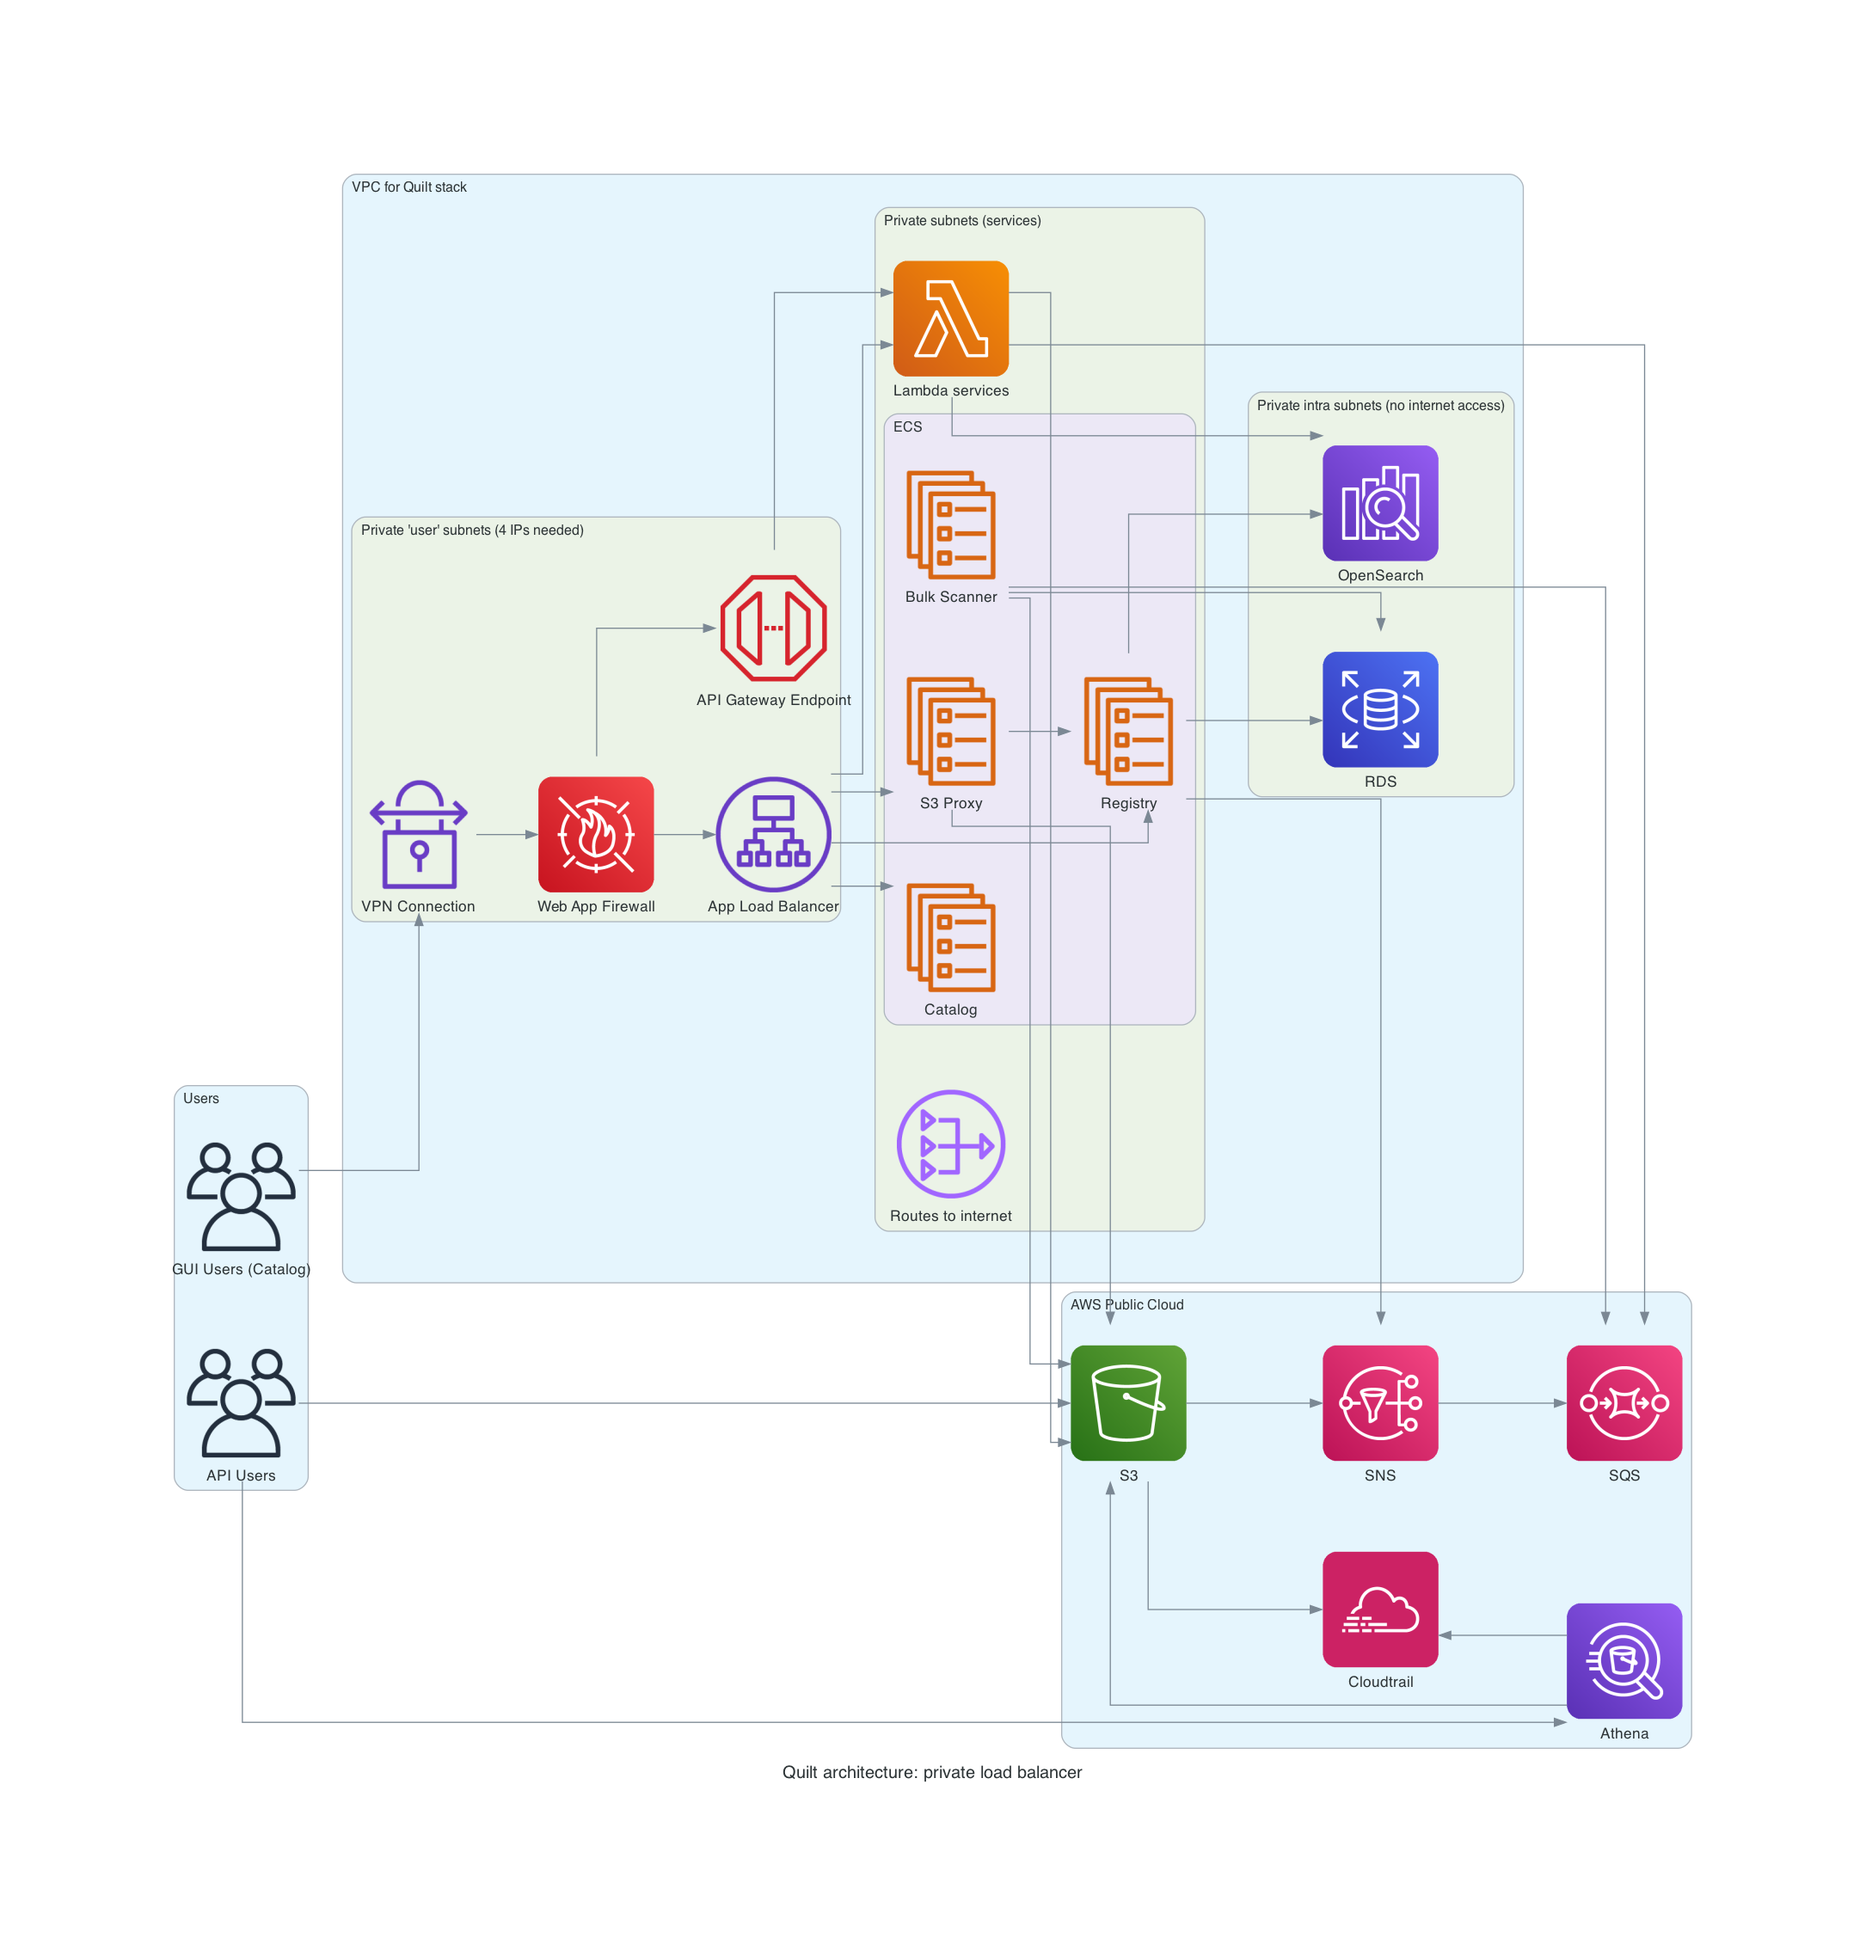
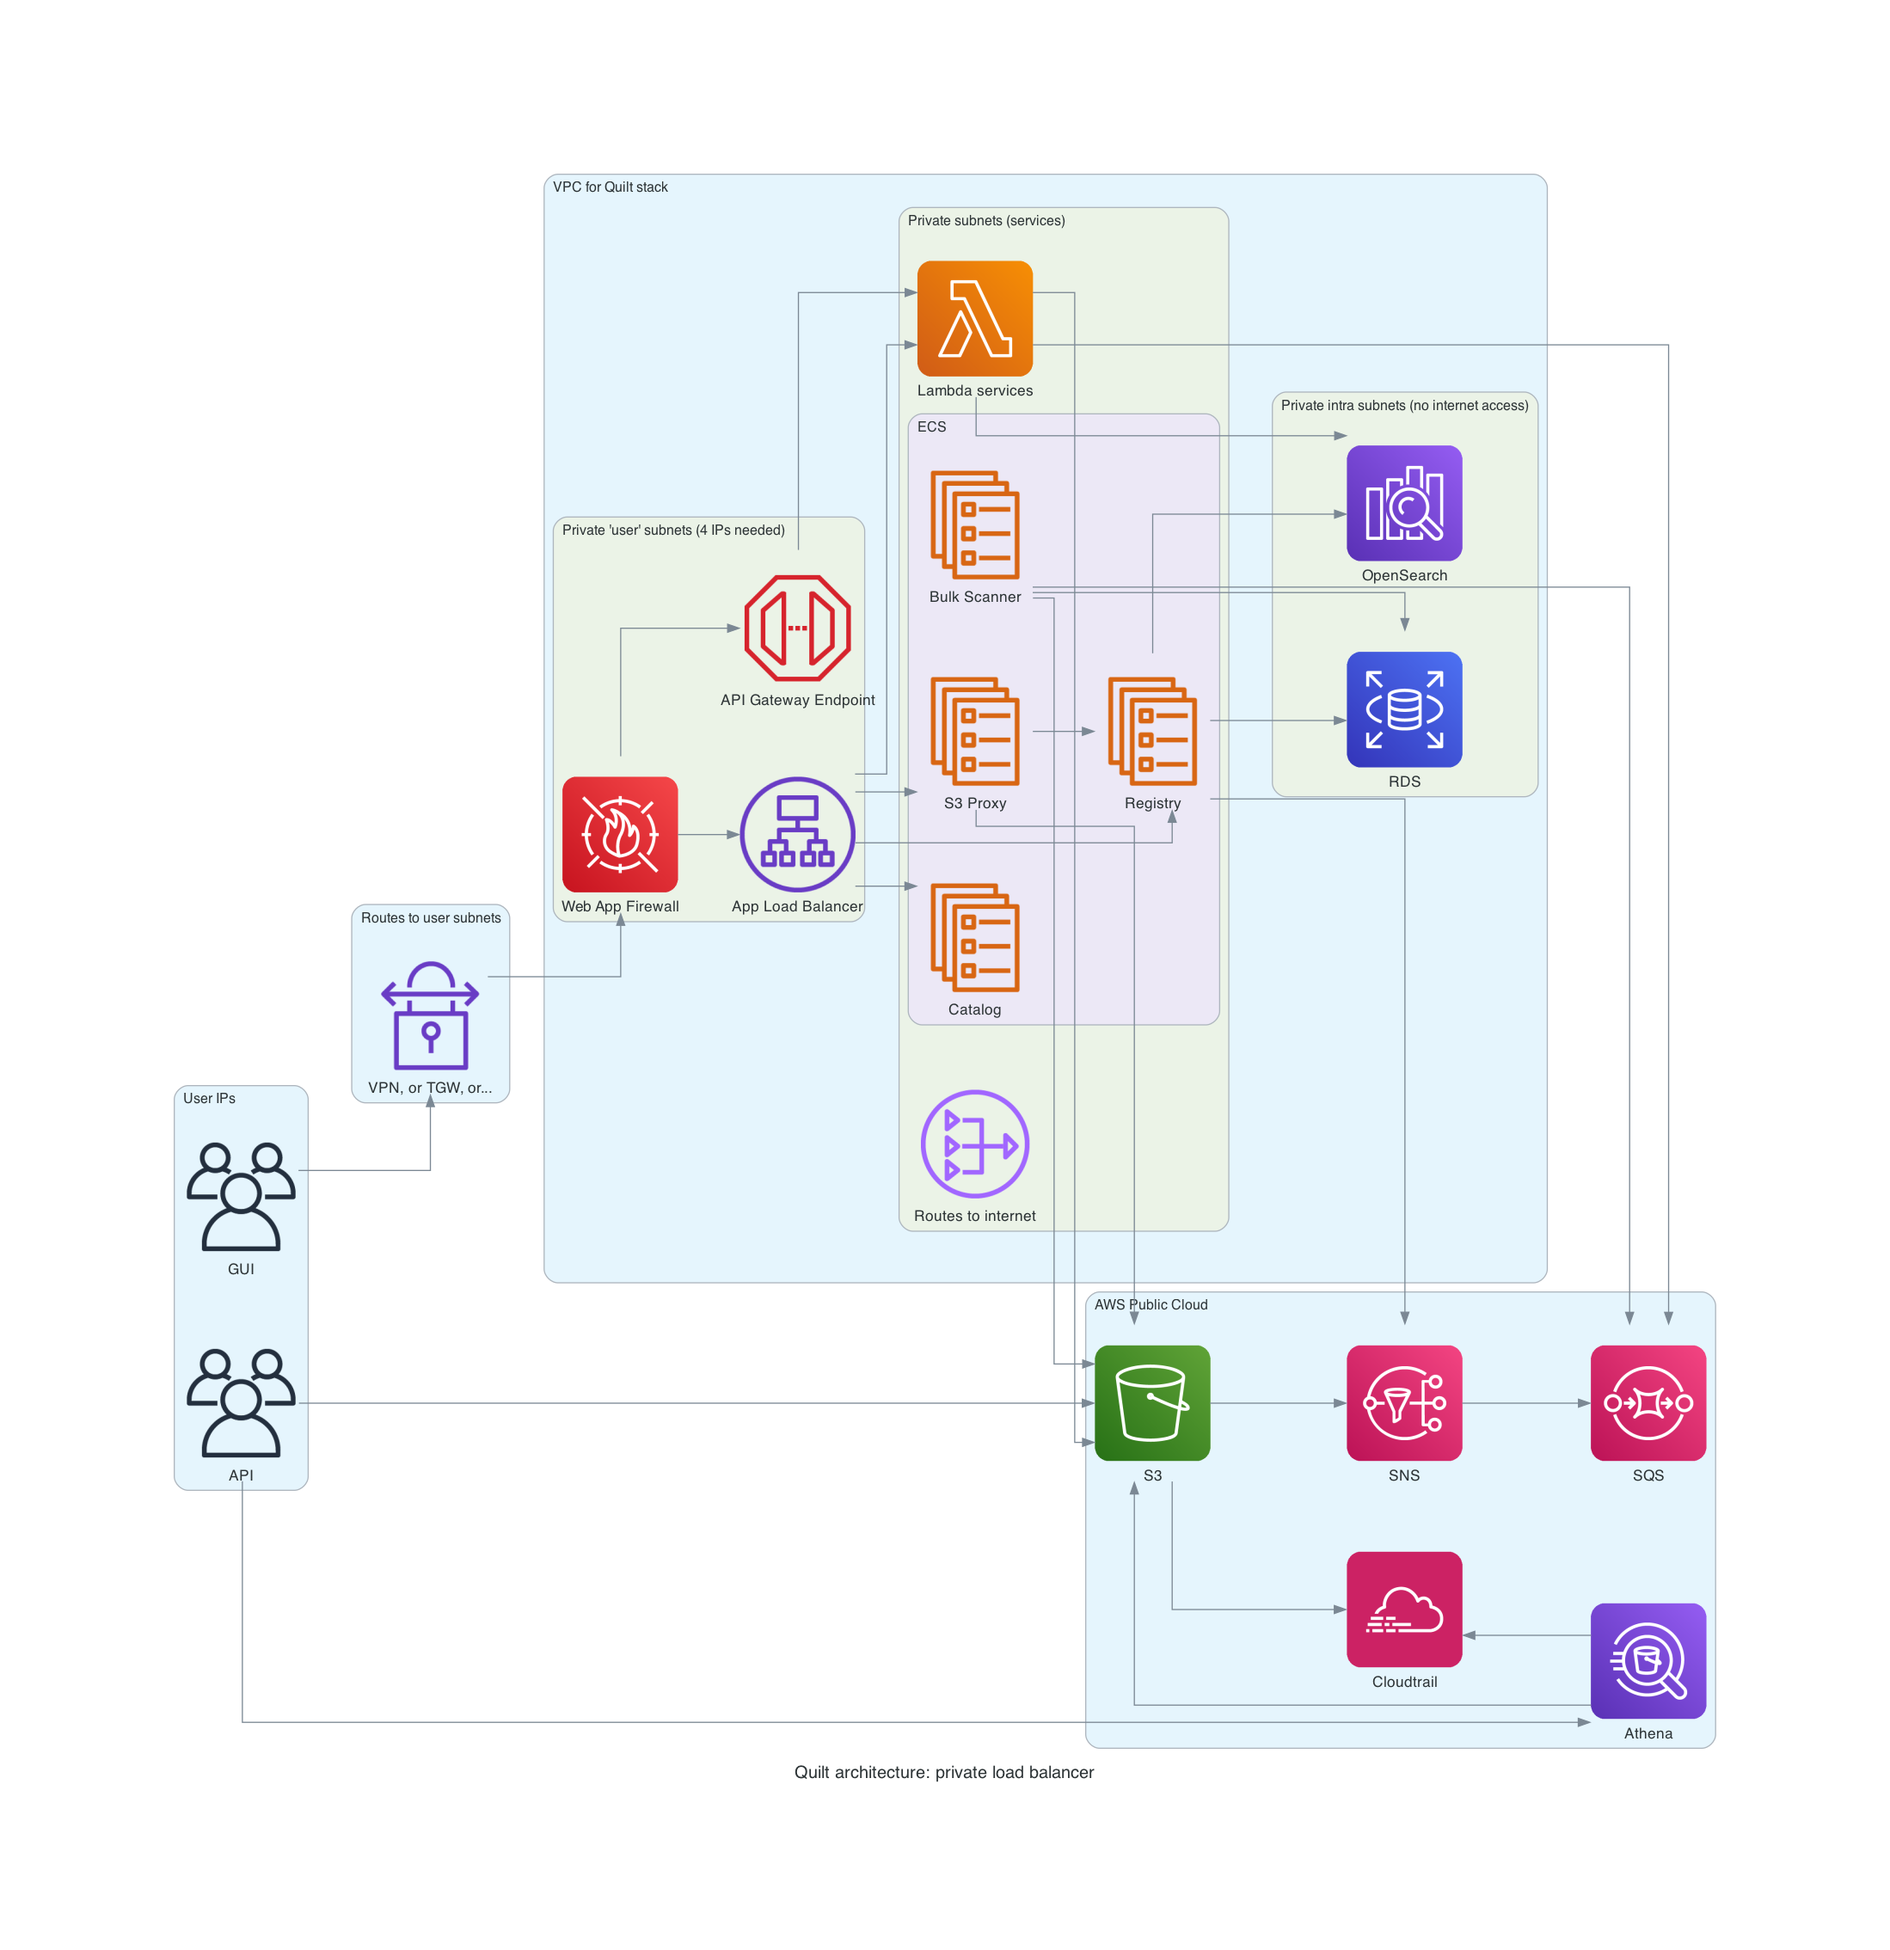
Network docs: subnet division, updated diagrams & guidance

diff --git a/docs/technical-reference.md b/docs/technical-reference.md
@@ -21,6 +21,7 @@ connect with other users
 * [Email Quilt](mailto:contact@quiltdata.io)
 
 ## Architecture
+
 Each instance consists of a CloudFormation stack that is privately hosted in your 
 AWS account. The stack includes backend services for the web catalog, single sign-on,
 user identification and access, an ElasticSearch cluster, and more.
@@ -28,19 +29,15 @@ user identification and access, an ElasticSearch cluster, and more.
 Quilt uses subnets and security groups to isolate network services and runs key
 services within the VPC.
 
+A private stack with an inward load balancer is shown below.
+
 ![Architecture (private ELBv2)](imgs/network_private.png)
 
-A private stack with an inward load balancer is shown above.
 For an internet-facing load balancer the data plane remains the same, as shown below.
 
 ![Architecture (public ELBv2)](imgs/network_public.png)
 
-> You can use a combination of interface endpoints and gateway endpoints to
-> restrict the data plane traffic shown above to your VPC.
-> See [Private endpoint access](advanced-features/private-endpoint-access.md) for more.
-
 ### Network
-
 
 You may provide your own VPC and subnets to a Quilt stack or have the Quilt stack
 create its own network.
@@ -50,8 +47,49 @@ create its own network.
 > subnets (no Internet)" at the cost of a weaker security posture.
 
 You may optionally provide your own VPC CIDR block
-with a /16 prefix if the default block of 10.0.0.0/16 conflicts with shared or
+if the default block of 10.0.0.0/16 conflicts with shared or
 peered VPC services.
+
+> For cost-sensitive deployments, Quilt ECS services can be configured to use
+> a single AZ.
+
+> You may use a combination of interface endpoints and gateway endpoints to
+> restrict the data plane traffic shown above to your VPC.
+> See [Private endpoint access](advanced-features/private-endpoint-access.md) for more.
+
+We recommend a CIDR block no smaller than /25 (128 addresses) for production
+deployments. Larger CIDR blocks are easier to upgrade to new Quilt versions
+with expanded services.
+
+#### Production, multi-AZ subnet division for private ELBv2 (you bring the network)
+
+| Type       | AZ | Description            | Services | IPs needed† |
+|------------|----|------------------------|----------|--------------|
+| Private    | a  | Routes to Internet     | ECS, Lambda | 16 |
+| Private    | b  | " | " | 16 |
+| Intra      | a  | No routes to Internet  | RDS , OpenSearch* | 16 |
+| Intra      | b  | " | " | 16 |
+| User       | a  | Reachable by GUI catalog users | App load balancer, API Gateway Endpoint | 4 |
+| User       | b  | " | " | 4 |
+
+> \* One IP per master node, one IP per data node
+
+> † Excludes the 5 IPs per subnet AWS consumes (network, routing, DNS, reserved, broadcast). Includes room for service expansion.
+
+#### Production, multi-AZ subnet division for private ELBv2 (you provide the network)
+
+| Type       | AZ | Description            | Services | IPs needed† |
+|------------|----|------------------------|----------|--------------|
+| Private    | a  | Routes to Internet     | ECS, Lambda | 16 |
+| Private    | b  | " | " | 16 |
+| Intra      | a  | No routes to Internet  | RDS , OpenSearch* | 16 |
+| Intra      | b  | " | " | 16 |
+| User (public) | a  | Reachable by GUI catalog users | App load balancer, API Gateway Endpoint | 4 |
+| User (public) | b  | " | " | 4 |
+
+> \* One IP per master node, one IP per data node
+
+> † Excludes the 5 IPs per subnet AWS consumes (network, routing, DNS, reserved, broadcast). Includes room for service expansion.
 
 > Run Quilt in a VPC with at least 1024 addresses (/22) to ensure sufficient
 > IPs for concurrent Lambdas and other services. If you wish to conserve
@@ -62,6 +100,9 @@ Below are the subnet configurations and sizes for Quilt version 2.0 networks,
 new as of June 2023. The configuration is similar to the
 [AWS Quick Start VPC](https://aws-quickstart.github.io/quickstart-aws-vpc/).
 
+
+#### Subnet division when Quilt creates the VPC
+
 - 2 public subnets for NAT gateways and an internet-facing application load balancer
 (1/4 the VPC CIDR)
 - 2 private subnets for Quilt services in ECS or Lambda, and an inward facing
@@ -70,13 +111,8 @@ application load balancer
 - 2 private subnets for intra-VPC traffic to and from the Quilt RDS database and
 OpenSearch domain
 (1/8 of the VPC CIDR)
+- 2 user subnets (same subnet as for the load balancer)
 - Unused (1/8 of the VPC CIDR)
-
-> For cost-sensitive deployments, Quilt ECS services can be configured to use
-> a single AZ.
-
-For further details on private IPs and Quilt see
-[Private endpoints](advanced-features/private-endpoint-access.md).
 
 ### Sizing
 The Quilt CloudFormation template will automatically configure appropriate instance sizes for RDS, ECS (Fargate), Lambda and Elasticsearch Service. Some users may choose to adjust the size and configuration of their Elasticsearch cluster. All other services should use the default settings.
